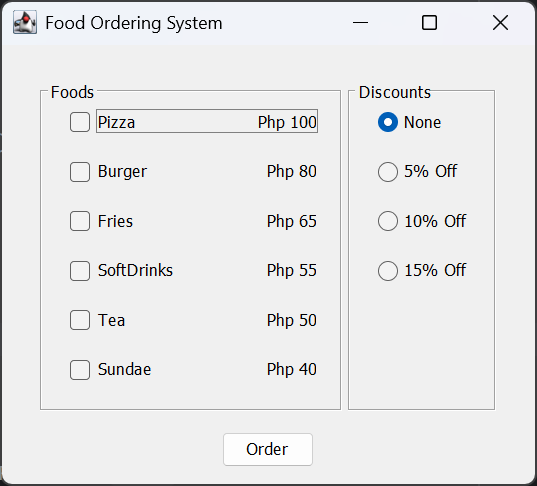
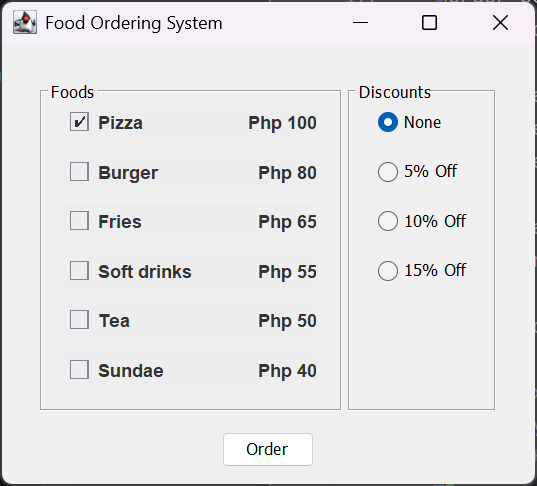
updated pwdvalidator and foodmenugui

diff --git a/src/FoodMenuGUI.java b/src/FoodMenuGUI.java
@@ -9,7 +9,7 @@ public class FoodMenuGUI extends JFrame {
             new FoodItem("Pizza", 100),
             new FoodItem("Burger", 80),
             new FoodItem("Fries", 65),
-            new FoodItem("SoftDrinks", 55),
+            new FoodItem("Soft drinks", 55),
             new FoodItem("Tea", 50),
             new FoodItem("Sundae", 40)
     );
@@ -54,15 +54,20 @@ public class FoodMenuGUI extends JFrame {
 
         JButton order_btn = new JButton("Order");
         order_btn.addActionListener(this::order_click);
+        order_btn.setName("btnOrder");
 
         JRadioButton d_0 = new JRadioButton("None");
         d_0.addActionListener(e -> discount = 0);
+        d_0.setName("rbNone");
         JRadioButton d_5 = new JRadioButton("5% Off");
         d_5.addActionListener(e -> discount = 0.05f);
+        d_5.setName("rb5");
         JRadioButton d_10 = new JRadioButton("10% Off");
         d_10.addActionListener(e -> discount = 0.1f);
+        d_10.setName("rb10");
         JRadioButton d_15 = new JRadioButton("15% Off");
         d_15.addActionListener(e -> discount = 0.15f);
+        d_15.setName("rb15");
 
         ButtonGroup buttonGroup = new ButtonGroup();
         buttonGroup.add(d_0);
@@ -157,10 +162,19 @@ public class FoodMenuGUI extends JFrame {
             setLayout(new GridBagLayout());
             setBorder(BorderFactory.createEmptyBorder(0, 0, 0, 0));
 
+            String e_name = "c";
+            String[] name_parts = name.split(" ");
+            for (String s : name_parts)
+            {
+                e_name +=  s.substring(0, 1).toUpperCase() + s.substring(1).toLowerCase();
+            }
+            setName(e_name);
+//            System.out.println(e_name);
+
             // checkbox + (label + label)
             checkbox_btn = new JCheckBox();
 
-            Border border_focused = BorderFactory.createLineBorder(Color.GRAY);
+            Border border_focused = BorderFactory.createDashedBorder(Color.GRAY);
             Border border_unfocused = BorderFactory.createEmptyBorder(1, 1, 1, 1);
 
             JPanel main_panel = new JPanel();

diff --git a/src/PasswordValidatorGUI.java b/src/PasswordValidatorGUI.java
@@ -18,6 +18,7 @@ public class PasswordValidatorGUI extends JFrame {
     {
         super("Password Validator");
         password = new JTextField();
+        password.setName("passwordTextField");
         password.getDocument().addDocumentListener(
                 new DocumentListener() {
                     @Override public void insertUpdate(DocumentEvent e) {onChangePassword();}
@@ -27,6 +28,7 @@ public class PasswordValidatorGUI extends JFrame {
         );
 
         status = new JLabel();
+        status.setName("statusLabel");
         status.setText("Passwords must be 8 characters long");
         status.setForeground(Color.RED);
 
